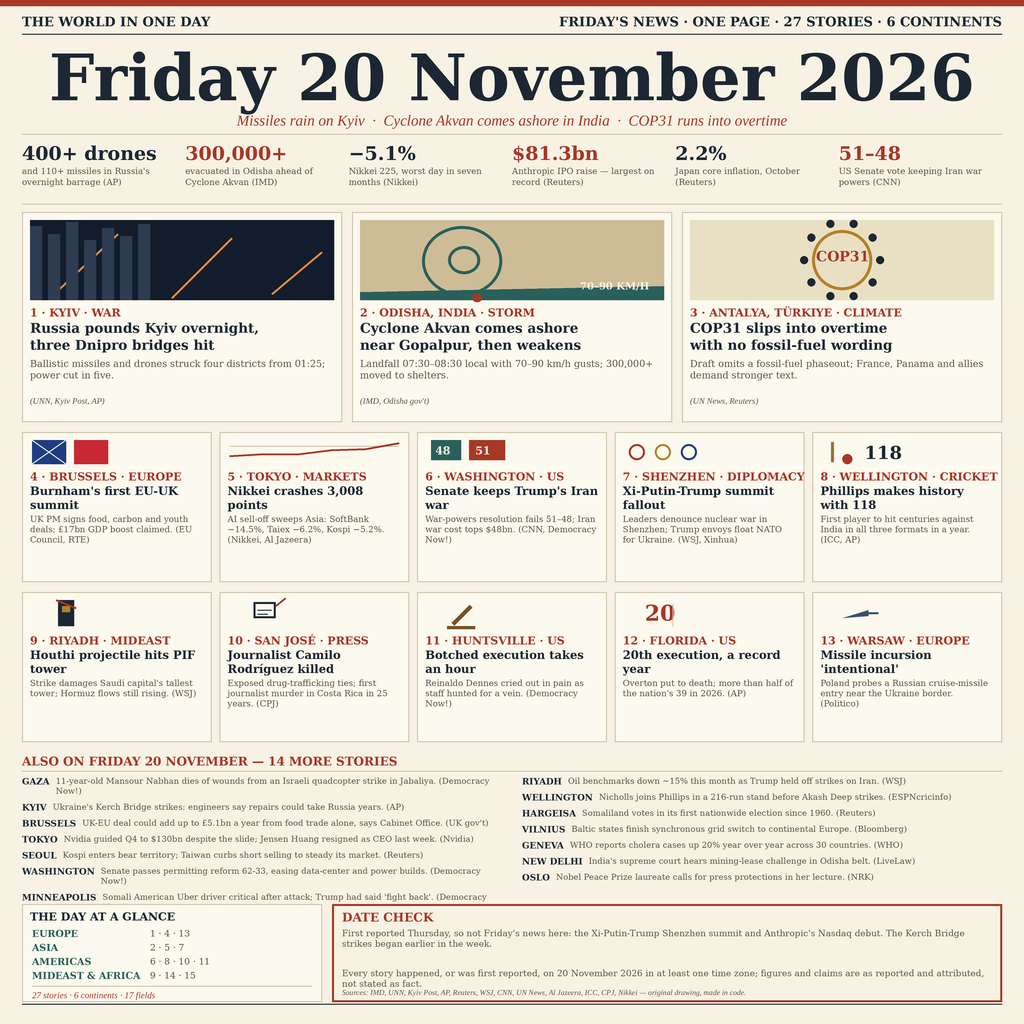
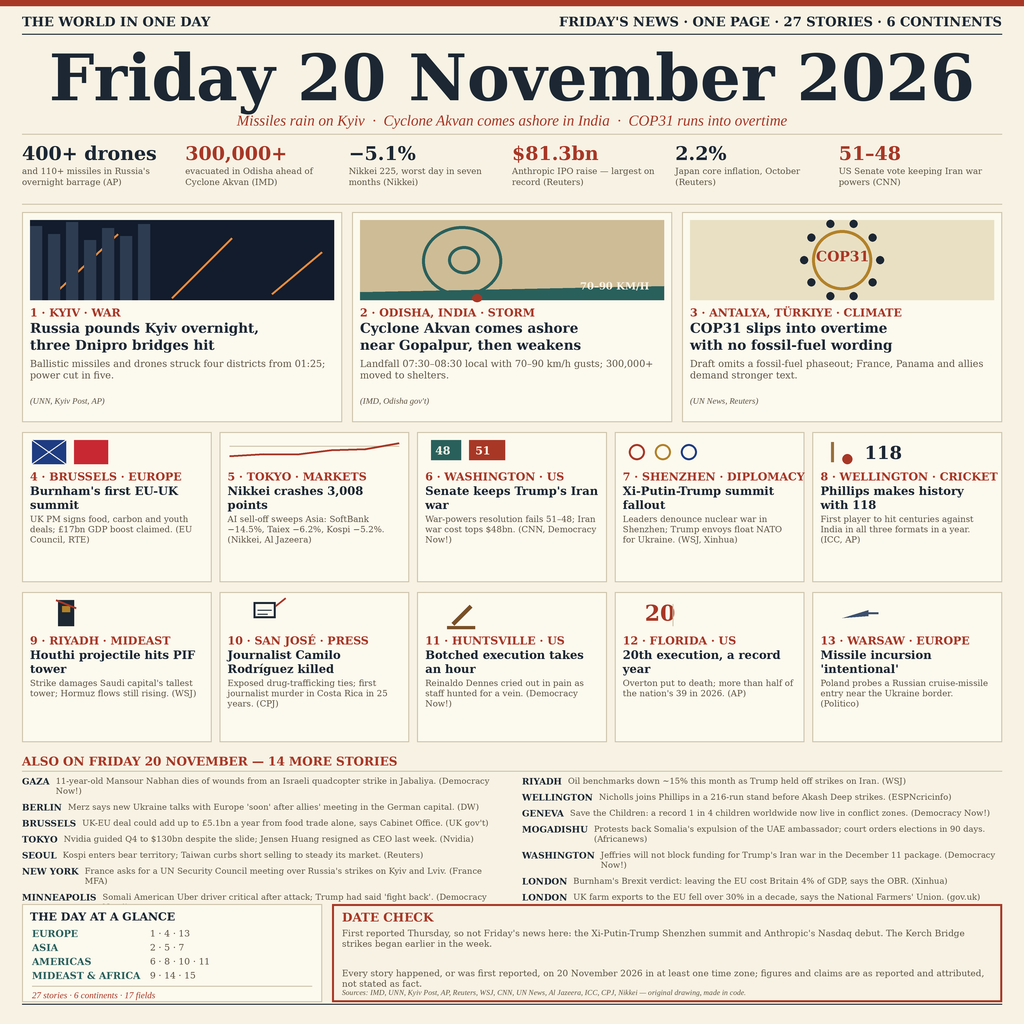
v2: replace unverified bottom-list items with sourced 20 November stories

Changed region(s): [[0.5, 0.7812, 0.9688, 0.875], [0.0312, 0.8438, 0.4688, 0.875], [0.0312, 0.7812, 0.4688, 0.8125]]

diff --git a/build_front.py b/build_front.py
@@ -296,19 +296,19 @@ d.text((M, aly), "ALSO ON FRIDAY 20 NOVEMBER — 14 MORE STORIES", font=serifb(1
 d.line([M, aly + 17 * S, PX - M, aly + 17 * S], fill=RULE, width=S)
 items = [
     ("GAZA", "11-year-old Mansour Nabhan dies of wounds from an Israeli quadcopter strike in Jabaliya.", "Democracy Now!"),
-    ("KYIV", "Ukraine's Kerch Bridge strikes: engineers say repairs could take Russia years.", "AP"),
+    ("BERLIN", "Merz says new Ukraine talks with Europe 'soon' after allies' meeting in the German capital.", "DW"),
     ("BRUSSELS", "UK-EU deal could add up to £5.1bn a year from food trade alone, says Cabinet Office.", "UK gov't"),
     ("TOKYO", "Nvidia guided Q4 to $130bn despite the slide; Jensen Huang resigned as CEO last week.", "Nvidia"),
     ("SEOUL", "Kospi enters bear territory; Taiwan curbs short selling to steady its market.", "Reuters"),
-    ("WASHINGTON", "Senate passes permitting reform 62-33, easing data-center and power builds.", "Democracy Now!"),
+    ("NEW YORK", "France asks for a UN Security Council meeting over Russia's strikes on Kyiv and Lviv.", "France MFA"),
     ("MINNEAPOLIS", "Somali American Uber driver critical after attack; Trump had said 'fight back'.", "Democracy Now!"),
     ("RIYADH", "Oil benchmarks down ~15% this month as Trump held off strikes on Iran.", "WSJ"),
     ("WELLINGTON", "Nicholls joins Phillips in a 216-run stand before Akash Deep strikes.", "ESPNcricinfo"),
-    ("HARGEISA", "Somaliland votes in its first nationwide election since 1960.", "Reuters"),
-    ("VILNIUS", "Baltic states finish synchronous grid switch to continental Europe.", "Bloomberg"),
-    ("GENEVA", "WHO reports cholera cases up 20% year over year across 30 countries.", "WHO"),
-    ("NEW DELHI", "India's supreme court hears mining-lease challenge in Odisha belt.", "LiveLaw"),
-    ("OSLO", "Nobel Peace Prize laureate calls for press protections in her lecture.", "NRK"),
+    ("GENEVA", "Save the Children: a record 1 in 4 children worldwide now live in conflict zones.", "Democracy Now!"),
+    ("MOGADISHU", "Protests back Somalia's expulsion of the UAE ambassador; court orders elections in 90 days.", "Africanews"),
+    ("WASHINGTON", "Jeffries will not block funding for Trump's Iran war in the December 11 package.", "Democracy Now!"),
+    ("LONDON", "Burnham's Brexit verdict: leaving the EU cost Britain 4% of GDP, says the OBR.", "Xinhua"),
+    ("LONDON", "UK farm exports to the EU fell over 30% in a decade, says the National Farmers' Union.", "gov.uk"),
 ]
 colw = (PX - 2 * M - 20 * S) / 2
 item_f = serif(8.3)

diff --git a/README.md b/README.md
@@ -14,7 +14,7 @@ outlet attribution and a date-check note for stories first reported the day befo
 mkdir -p out && MAKEFUN_OUTPUT_DIR=out python3 main.py
 ```
 
-`main.py` copies the committed `entry.png` (1024×1024, ~572 KB) to `$MAKEFUN_OUTPUT_DIR`
+`main.py` copies the committed `entry.png` (1024×1024, ~580 KB) to `$MAKEFUN_OUTPUT_DIR`
 (default `/output`). The image was generated offline by `build_front.py` at build time,
 so the runtime is fully deterministic: no network, no randomness, no wall clock.
 
